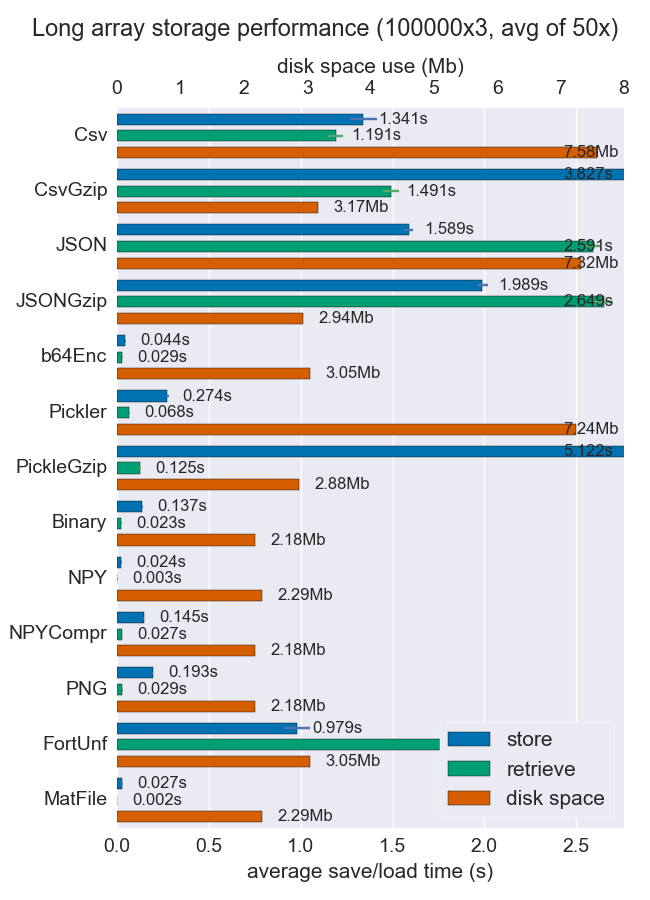
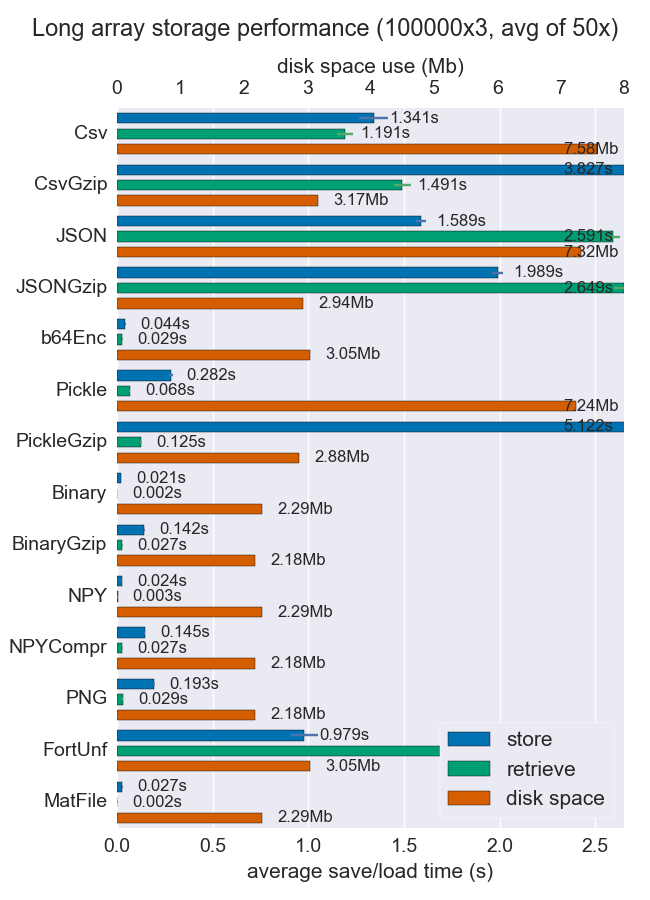
fix binary benchmark

diff --git a/methods.py b/methods.py
@@ -24,13 +24,9 @@ class TimeArrStorage(object):
 	extension = 'data'
 	
 	def __init__(self, reps=100):
-		# self.path = 'data-{0:s}.{1:s}'.format(self.__class__.__name__, self.extension)
 		self.save_time = None
 		self.load_time = None
 		self.storage_space = None
-		# self.reps = int(reps)
-		# self.paths = tuple(join(mkdtemp(), self.__class__.__name__.lower() + '{0:03d}.{1:s}'
-		# 	.format(k, self.extension)) for k in range(self.reps))
 	
 	def __str__(self):
 		return self.__class__.__name__
@@ -43,7 +39,6 @@ class TimeArrStorage(object):
 		raise NotImplementedError
 	
 	def time_save(self, arr, pth):
-		# for pth in self.paths:
 		t0 = time()
 		self.save(arr, pth)
 		self.save_time = time() - t0
@@ -53,7 +48,6 @@ class TimeArrStorage(object):
 		t0 = time()
 		arr = self.load(pth)
 		self.load_time = time() - t0
-		# self.storage_spaces = getsize(pth)
 		remove(pth)
 		assert array_equal(arr, ref_arr), 'load failed for {0:}'.format(self)
 	
@@ -97,7 +91,19 @@ class JSONGzip(TimeArrStorage):
 
 
 class Binary(TimeArrStorage):
-	#todo: this one is suspiciously slow
+	def save(self, arr, pth):
+		with open(pth, 'wb+') as fh:
+			fh.write(b'{0:s} {1:d} {2:d}\n'.format(arr.dtype, *arr.shape))
+			fh.write(arr.data)
+			sync(fh)
+
+	def load(self, pth):
+		with open(pth, 'rb') as fh:
+			dtype, w, h = str(fh.readline()).split()
+			return frombuffer(fh.read(), dtype=dtype).reshape((int(w), int(h)))
+
+
+class BinaryGzip(TimeArrStorage):
 	def save(self, arr, pth):
 		with gzip.open(pth, 'wb+') as fh:
 			fh.write(b'{0:s} {1:d} {2:d}\n'.format(arr.dtype, *arr.shape))
@@ -110,7 +116,7 @@ class Binary(TimeArrStorage):
 			return frombuffer(fh.read(), dtype=dtype).reshape((int(w), int(h)))
 
 
-class Pickler(TimeArrStorage):
+class Pickle(TimeArrStorage):
 	def save(self, arr, pth):
 		with open(pth, 'wb+') as fh:
 			pkl_dump(arr, fh)
@@ -207,5 +213,8 @@ class MatFile(TimeArrStorage):
 	def load(self, pth):
 		with open(pth, 'r') as fh:
 			return loadmat(fh)['data']
+
+
+METHODS = (Csv, CsvGzip, JSON, JSONGzip, b64Enc, Pickle, PickleGzip, Binary, BinaryGzip, NPY, NPYCompr, PNG, FortUnf, MatFile)
 
 
